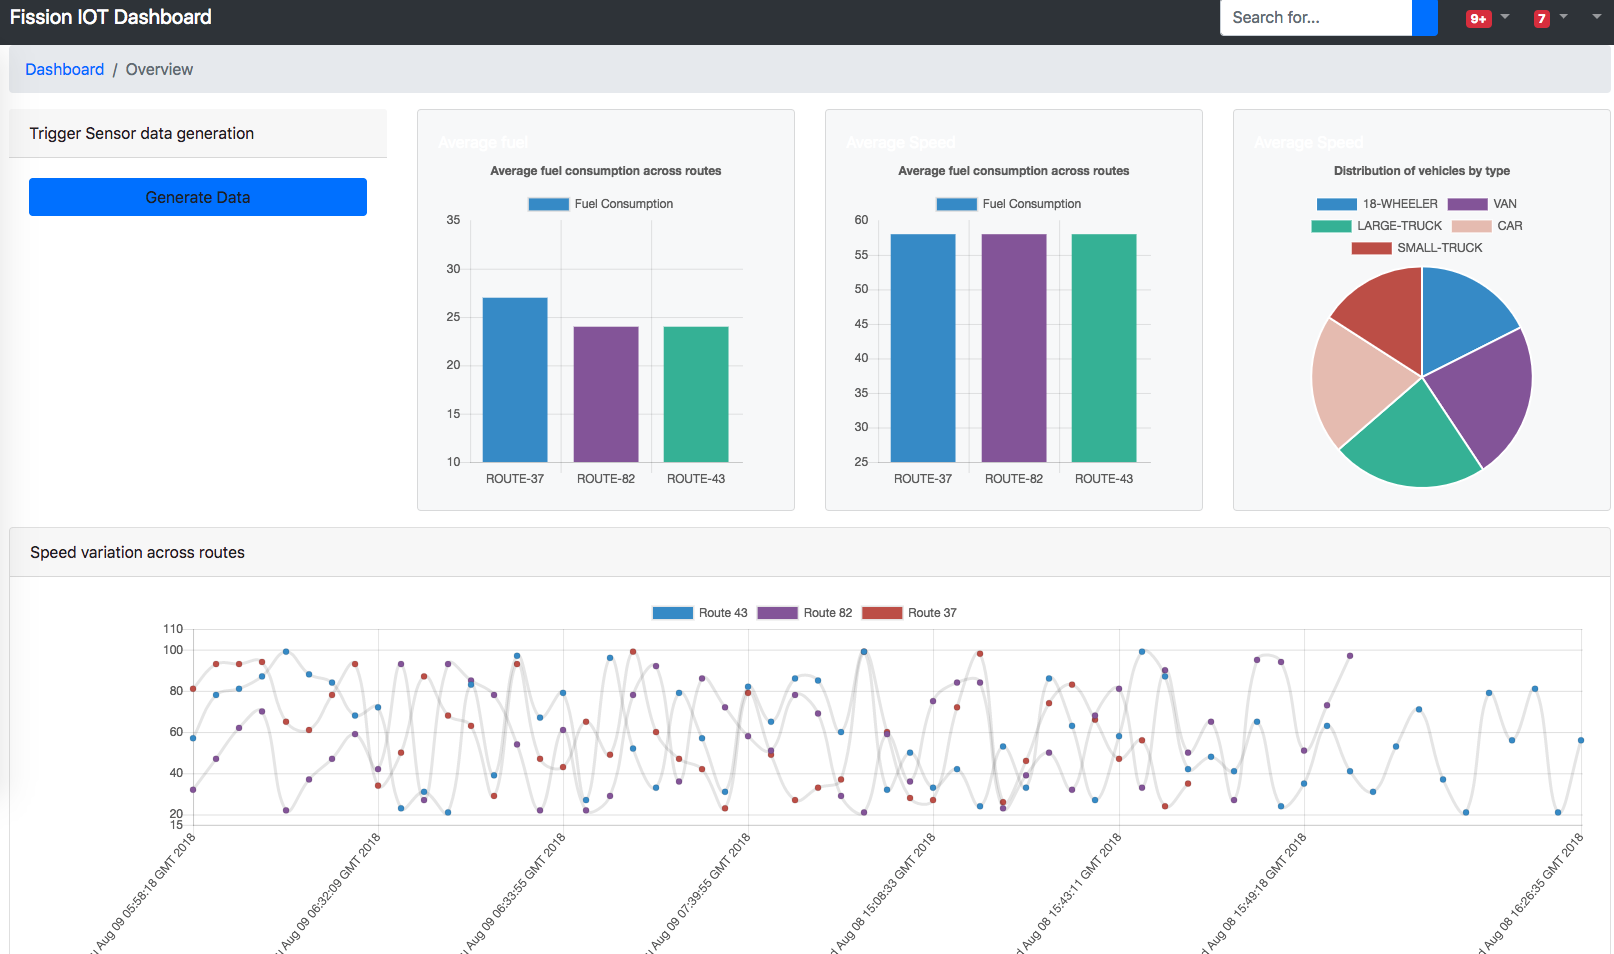
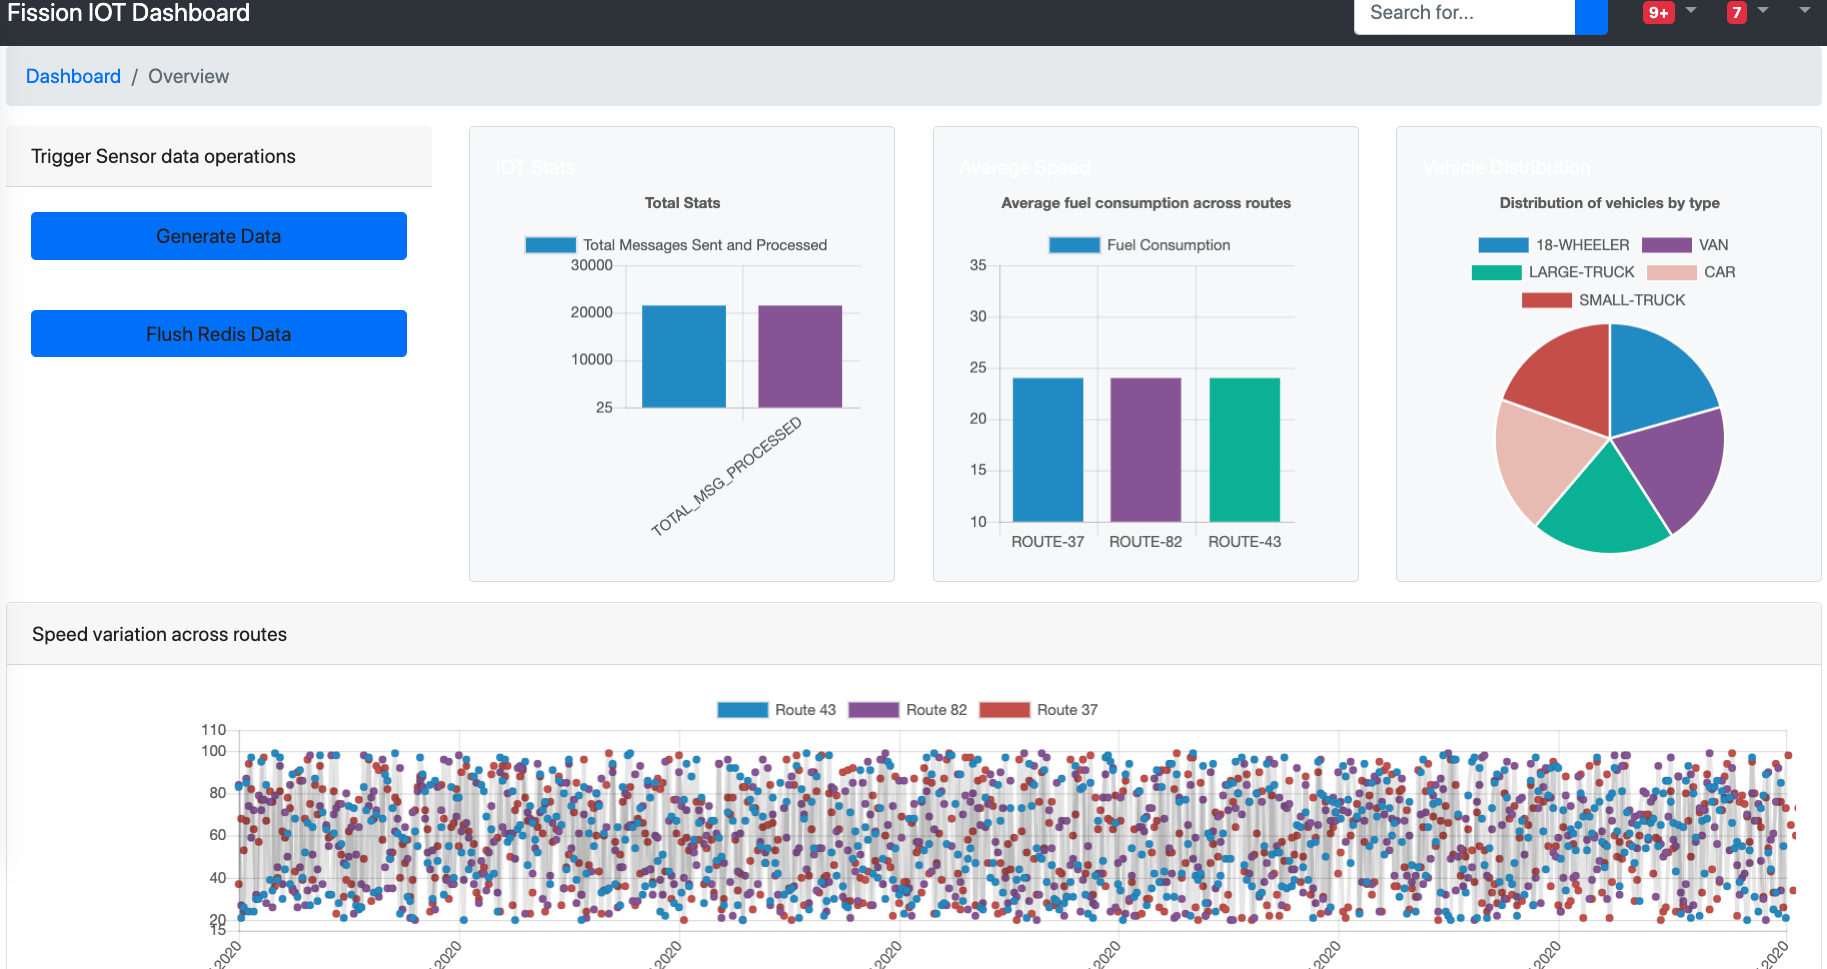
Added visualization of all messages (#10)

diff --git a/03_iot_web/index.html b/03_iot_web/index.html
@@ -94,9 +94,12 @@
                 <div class="col-xl-3 col-sm-6 mb-3">
                     <div class="card-header">
                         <i class="fas fa-chart-area"></i>
-                        Trigger Sensor data generation</div>
+                        Trigger Sensor data operations</div>
                     <div class="card-body">
                         <a class="btn btn-primary btn-block" onclick="produceData()">Generate Data</a>
+                    </div>
+                    <div class="card-body">
+                        <a class="btn btn-primary btn-block" onclick="flushData()">Flush Redis Data</a>
                     </div>
                 </div>
                 <div class="col-xl-3 col-sm-6 mb-3">
@@ -105,7 +108,20 @@
                             <div class="card-body-icon">
                                 <i class="fas fa-fw fa-comments"></i>
                             </div>
-                            <div class="mr-5">Average fuel</div>
+                            <div class="mr-5">IOT Stats</div>
+                            <div>
+                                <canvas id="statsAvg" width="100%" height="100"></canvas>
+                            </div>
+                        </div>
+                    </div>
+                </div>
+                <div class="col-xl-3 col-sm-6 mb-3">
+                    <div class="card text-white bg-light o-hidden h-100">
+                        <div class="card-body">
+                            <div class="card-body-icon">
+                                <i class="fas fa-fw fa-comments"></i>
+                            </div>
+                            <div class="mr-5">Average Speed</div>
                             <div>
                                 <canvas id="fuelaverage" width="100%" height="100"></canvas>
                             </div>
@@ -118,20 +134,7 @@
                             <div class="card-body-icon">
                                 <i class="fas fa-fw fa-comments"></i>
                             </div>
-                            <div class="mr-5">Average Speed</div>
-                            <div>
-                                <canvas id="speedaverage" width="100%" height="100"></canvas>
-                            </div>
-                        </div>
-                    </div>
-                </div>
-                <div class="col-xl-3 col-sm-6 mb-3">
-                    <div class="card text-white bg-light o-hidden h-100">
-                        <div class="card-body">
-                            <div class="card-body-icon">
-                                <i class="fas fa-fw fa-comments"></i>
-                            </div>
-                            <div class="mr-5">Average Speed</div>
+                            <div class="mr-5">Vehicle Distribution</div>
                             <div>
                                 <canvas id="countdistribution" width="100%" height="100"></canvas>
                             </div>
@@ -197,13 +200,13 @@
                     alert("Data cleared")
                 }
             };
-            xhttp.open("GET", "/fission-function/flush", true);
+            xhttp.open("GET", "/fission-function/flushcachedata", true);
             xhttp.send();
         }
-        // Load the speed avg
+        // Load the IOT stats
         $.ajax({
             type: 'get',
-            url: '/fission-function/speedavg',
+            url: '/fission-function/iotstats',
             crossDomain: true,
             origin: "*",
             data: {},
@@ -214,13 +217,13 @@
                 //   api_data[i] //value
                 //}
                 console.log(response);
-                new Chart(document.getElementById("speedaverage"), {
+                new Chart(document.getElementById("statsAvg"), {
                     type: 'bar',
                     data: {
                         labels: Object.keys(response),
                         datasets: [
                             {
-                                label: "Fuel Consumption",
+                                label: "Total Messages Sent and Processed",
                                 backgroundColor: ["#3e95cd", "#8e5ea2", "#3cba9f", "#e8c3b9", "#c45850"],
                                 data: Object.values(response)
                             }
@@ -230,7 +233,7 @@
                         legend: { display: true },
                         title: {
                             display: true,
-                            text: 'Average fuel consumption across routes'
+                            text: 'Total Stats'
                         },
                         scales: {
                             yAxes: [{

diff --git a/02_iot_data_consumer/src/main/java/io/fission/api/IotApiStats.java b/02_iot_data_consumer/src/main/java/io/fission/api/IotApiStats.java
@@ -1,10 +1,15 @@
 package io.fission.api;
 
+import java.util.HashMap;
+import java.util.Map;
 import java.util.logging.Logger;
 
 import org.springframework.http.HttpHeaders;
 import org.springframework.http.RequestEntity;
 import org.springframework.http.ResponseEntity;
+
+import com.fasterxml.jackson.core.JsonProcessingException;
+import com.fasterxml.jackson.databind.ObjectMapper;
 
 import io.fission.Context;
 import io.fission.Function;
@@ -12,17 +17,23 @@ import redis.clients.jedis.Jedis;
 import redis.clients.jedis.JedisPool;
 import redis.clients.jedis.JedisPoolConfig;
 
-public class IotFlushData implements Function  {
+public class IotApiStats implements Function  {
 	
 	private static Logger logger = Logger.getGlobal();
+	final ObjectMapper mapper = new ObjectMapper();
 	JedisPool pool = new JedisPool(new JedisPoolConfig(), "redis-single-master.redis");
-
 
 	public ResponseEntity call(RequestEntity req, Context context) {
 		Jedis jedis = null;
+		HashMap<String,String> statCount = new HashMap<String,String>();
+		String data = "";
 		try {
 			jedis = pool.getResource();
-			jedis.flushDB();
+			statCount.put("TOTAL_MSG_SENT", jedis.hget("RECORD_SENT_BY_PRODUCER", "COUNT"));
+			statCount.put("TOTAL_MSG_PROCESSED", jedis.hget("RECORD_ACK_BY_CONSUMER", "COUNT"));
+			data = mapper.writeValueAsString(statCount);
+		} catch (JsonProcessingException e) {
+			e.printStackTrace();
 		} finally {
 			// You have to close jedis object. If you don't close then
 			// it doesn't release back to pool and you can't get a new
@@ -31,10 +42,11 @@ public class IotFlushData implements Function  {
 				jedis.close();
 			}
 		}
+		
 		HttpHeaders headers = new HttpHeaders();
 		headers.add(HttpHeaders.CONTENT_TYPE, "application/json; charset=UTF-8");
 		headers = IotApiFuel.AddCorsHeaders(headers);
-		return ResponseEntity.ok().headers(headers).build();
+		return ResponseEntity.ok().headers(headers).body(data);
 	}
 
 }

diff --git a/01_iot_data_producer/src/main/java/io/fission/kafka/IotProducer.java b/01_iot_data_producer/src/main/java/io/fission/kafka/IotProducer.java
@@ -23,6 +23,9 @@ import org.springframework.http.HttpHeaders;
 import org.springframework.http.HttpStatus;
 import org.springframework.http.RequestEntity;
 import org.springframework.http.ResponseEntity;
+import redis.clients.jedis.Jedis;
+import redis.clients.jedis.JedisPool;
+import redis.clients.jedis.JedisPoolConfig;
 
 import io.fission.kafka.IoTData;
 
@@ -108,9 +111,19 @@ public class IotProducer implements Function {
 				eventList.add(event);
 			}
 		}
+		JedisPool pool = new JedisPool(new JedisPoolConfig(), "redis-single-master.redis");
+		Jedis jedis = null;
 		Collections.shuffle(eventList);// shuffle for random events
-		for (IoTData event : eventList) {
-			producer.send(new ProducerRecord<String, IoTData>(topic, event));
+		try {
+			jedis = pool.getResource();
+			for (IoTData event : eventList) {
+				producer.send(new ProducerRecord<String, IoTData>(topic, event));
+				jedis.hincrBy("RECORD_SENT_BY_PRODUCER", "COUNT", 1);	
+			}
+		} finally {
+			if (jedis != null) {
+				jedis.close();
+			}
 		}
 
 	}

diff --git a/02_iot_data_consumer/src/main/java/io/fission/kafka/IotConsumer.java b/02_iot_data_consumer/src/main/java/io/fission/kafka/IotConsumer.java
@@ -37,6 +37,7 @@ public class IotConsumer implements Function {
 			jedis.ltrim((iotData.getRouteId()+"-SPEED").toUpperCase(), 0, 10000);
 			// - Add Increment Vehicle type by 1
 			jedis.hincrBy((iotData.getVehicleType().replace(" ", "-")).toUpperCase(), "COUNT", 1);	
+			jedis.hincrBy("RECORD_ACK_BY_CONSUMER", "COUNT", 1);
 		
 			// - Add Data of Speed across times.
 			jedis.hset((iotData.getRouteId()+"-DATA").toUpperCase(), iotData.getTimestamp().toString(), Double.toString(iotData.getSpeed()));			
